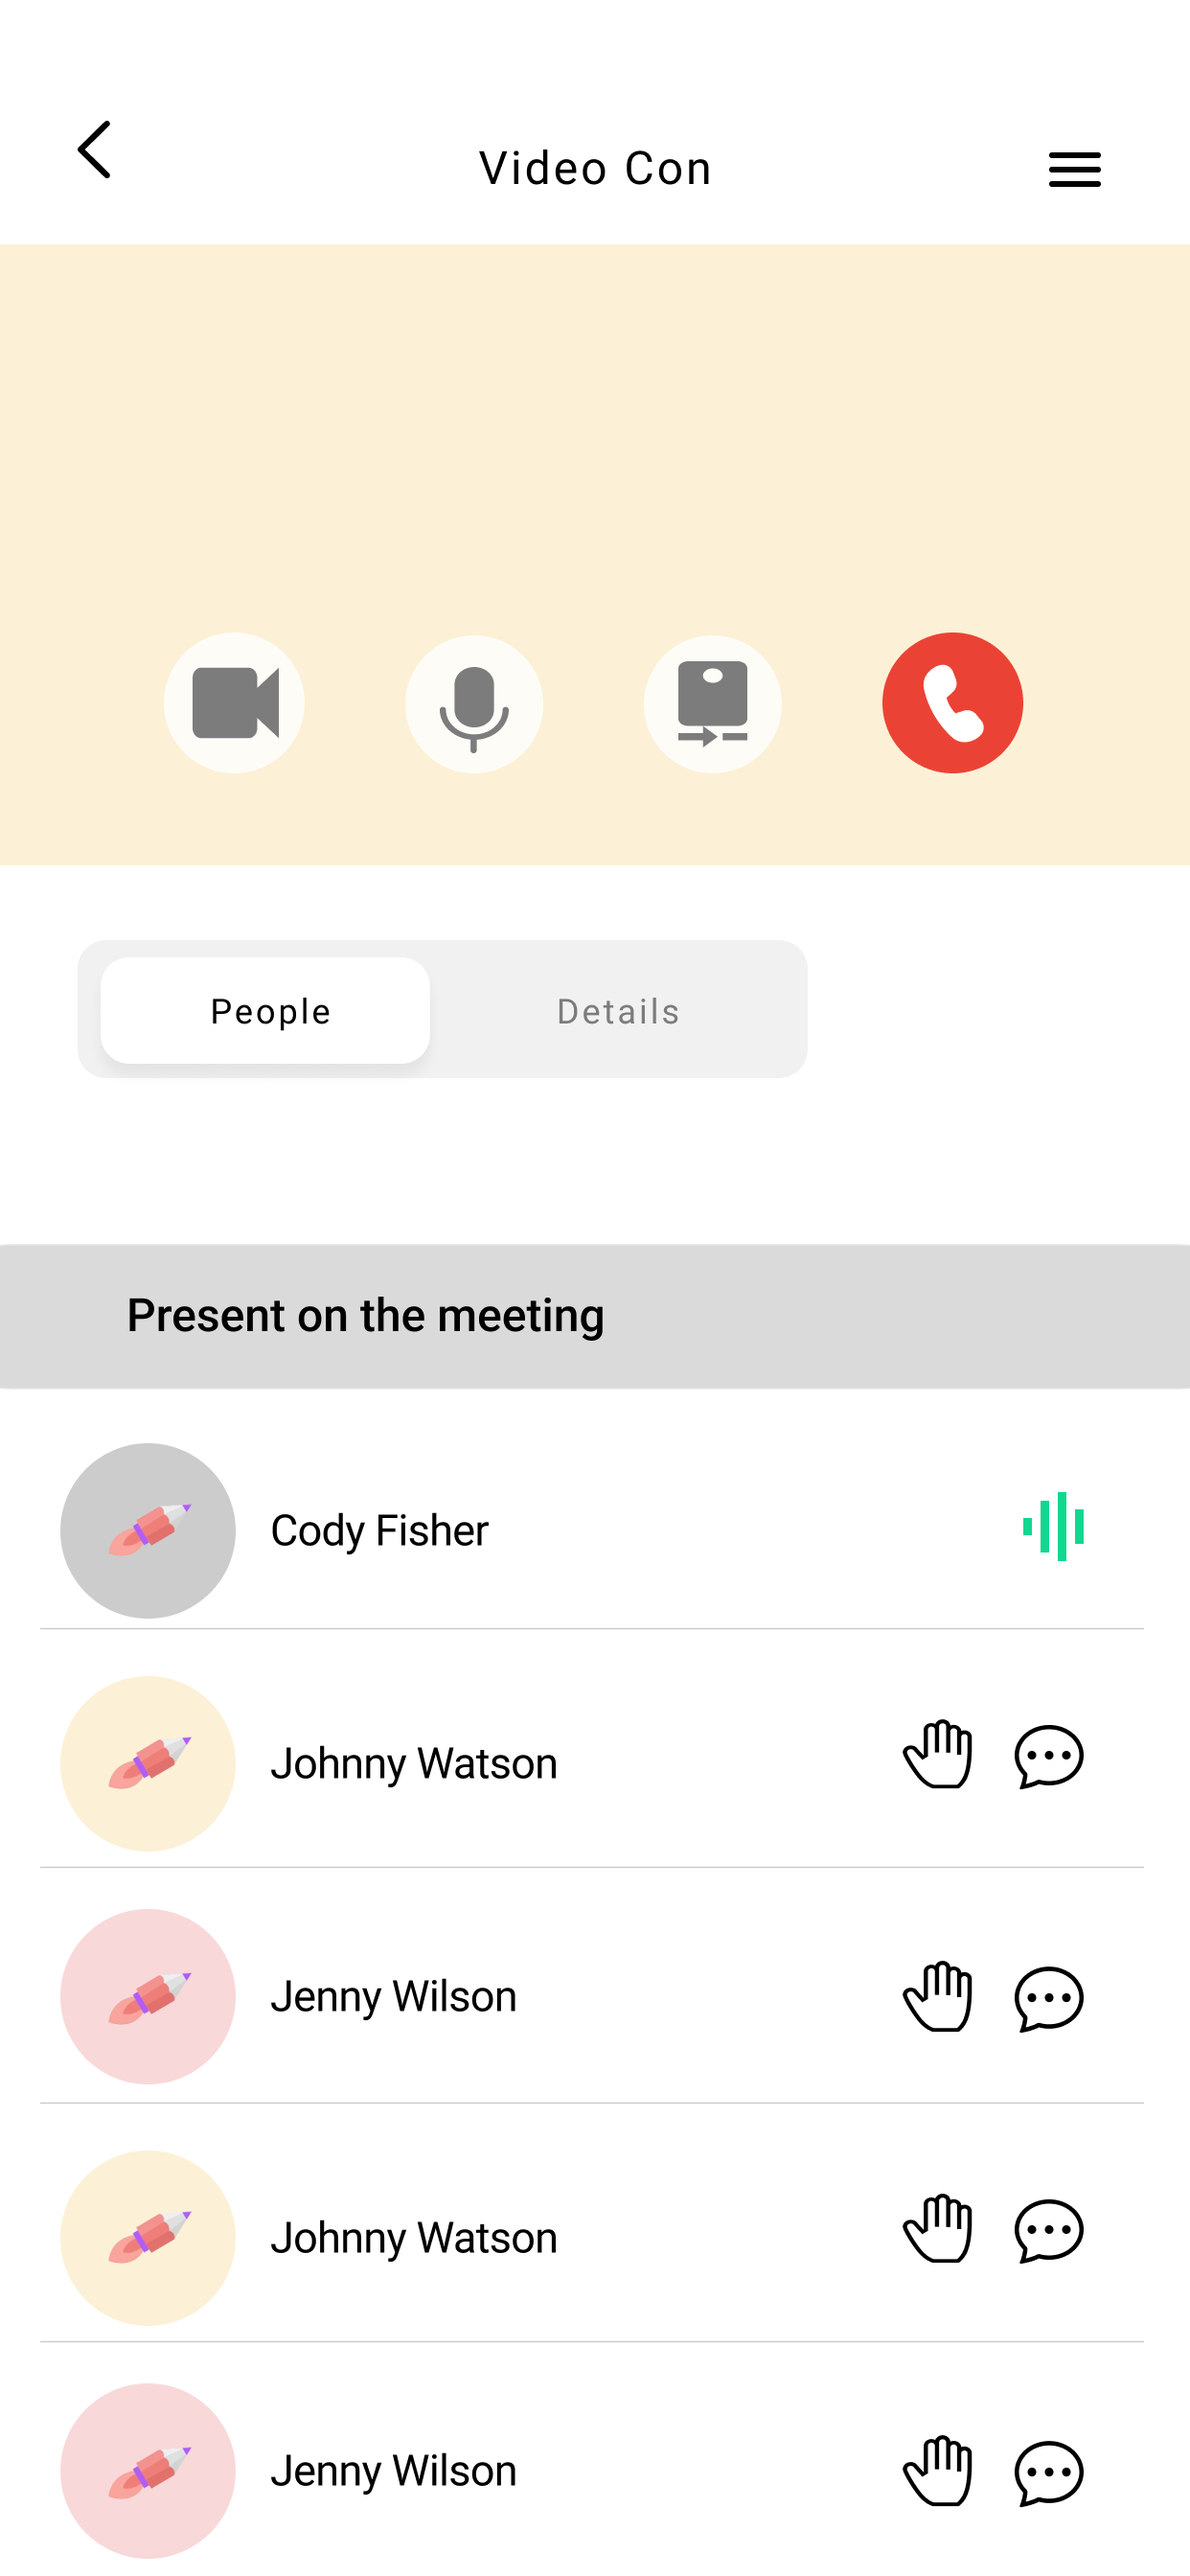
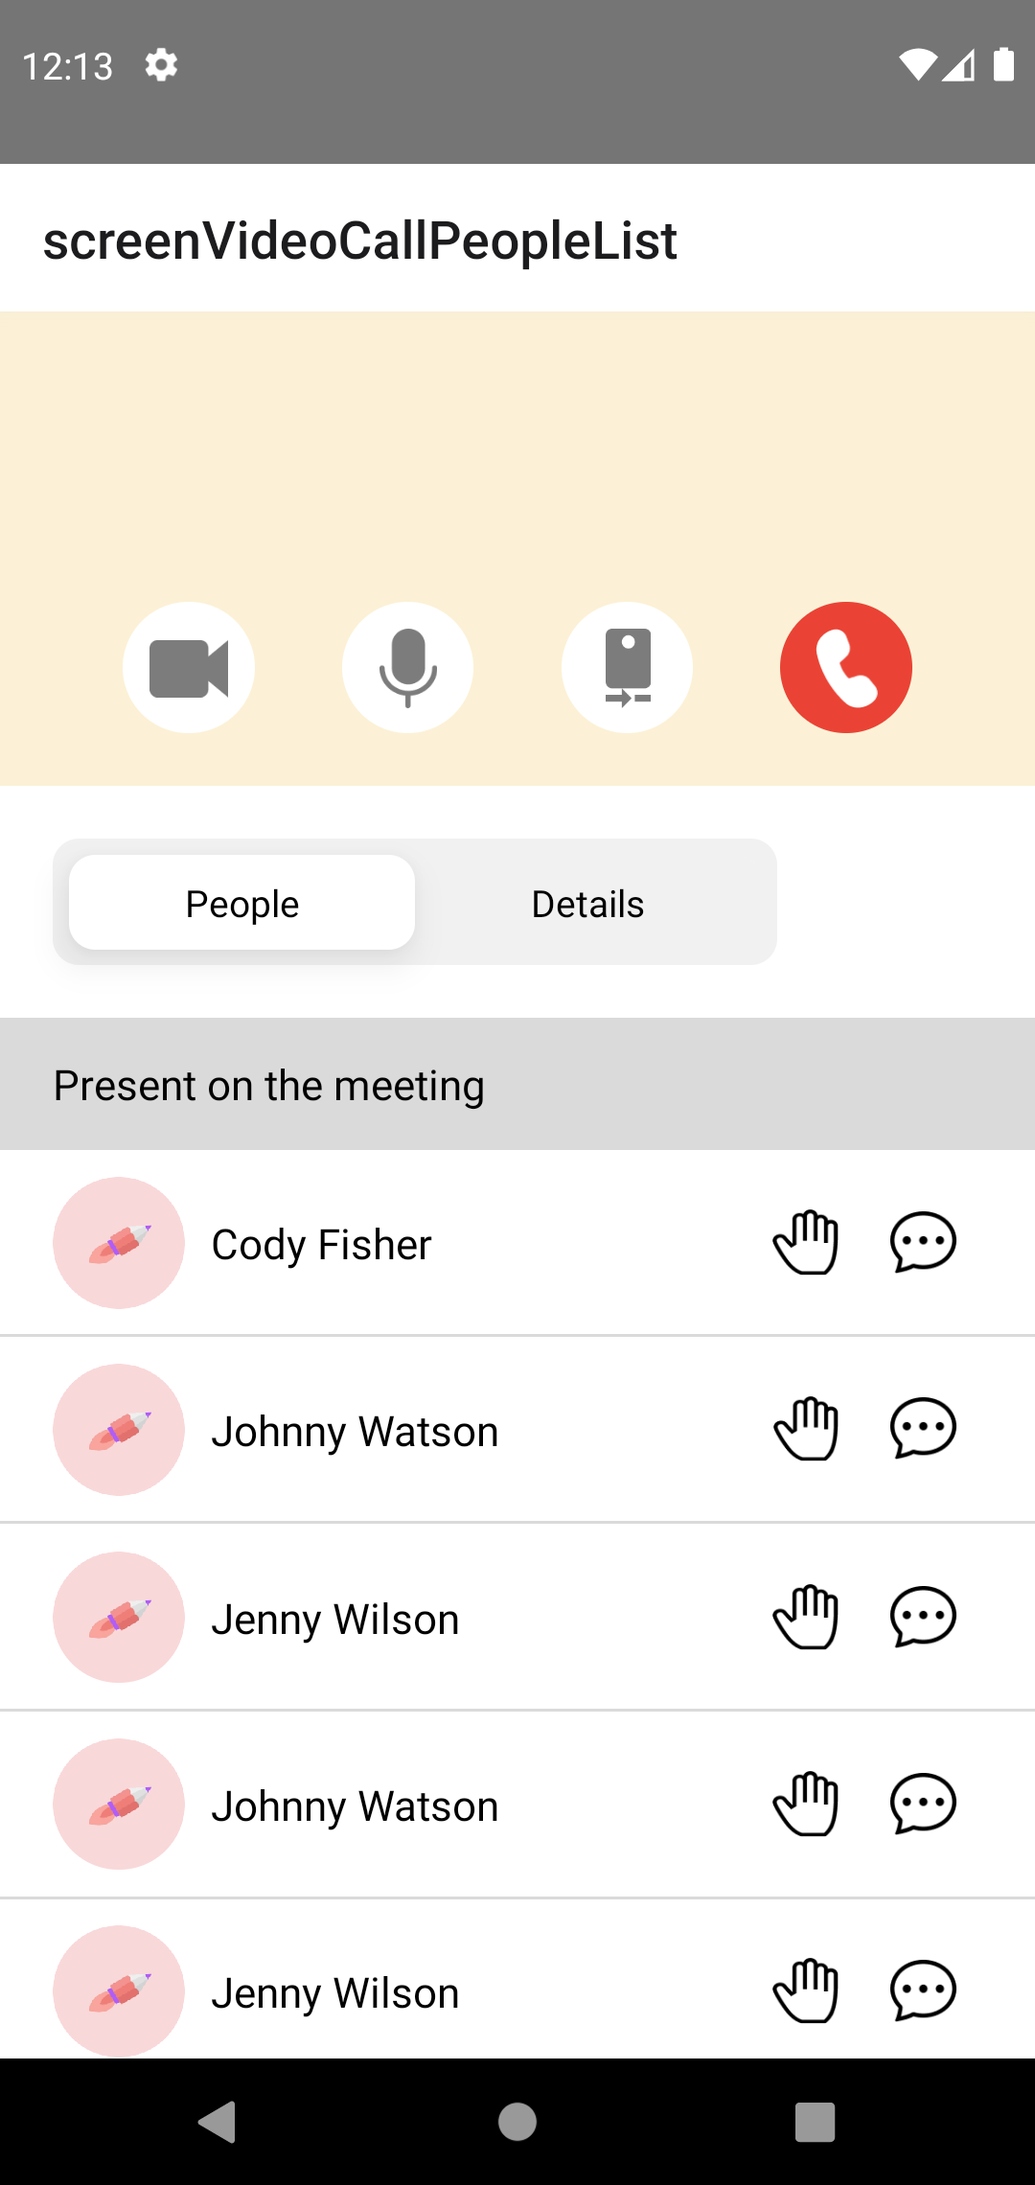
video call people list screen added

diff --git a/screens/screen-video-call-people-list/index.js b/screens/screen-video-call-people-list/index.js
@@ -1,14 +1,103 @@
-import React from "react";
+import React, { useState, useEffect } from "react";
 import {
   Text,
   View,
-  StyleSheet
+  StyleSheet,
+  Image,
+  Pressable,
+  ScrollView
 } from "react-native";
 
 const VideoCallPeopleList = () => {
+  const [selectedTab, setSelectedTab] = useState(0);
+  const [people, setPeople] = useState([]);
+  useEffect(() => {
+    setPeople([
+      {
+        name: "Cody Fisher",
+        image: require("./assets/userImage.png")
+      },
+      {
+        name: "Johnny Watson",
+        image: require("./assets/userImage.png")
+      },
+      {
+        name: "Jenny Wilson",
+        image: require("./assets/userImage.png")
+      },
+      {
+        name: "Johnny Watson",
+        image: require("./assets/userImage.png")
+      },
+      {
+        name: "Jenny Wilson",
+        image: require("./assets/userImage.png")
+      },
+      {
+        name: "Johnny Watson",
+        image: require("./assets/userImage.png")
+      },
+      {
+        name: "Jenny Wilson",
+        image: require("./assets/userImage.png")
+      }
+    ]);
+  }, []);
   return (
     <View style={styles.container}>
-      <Text style={styles.heading}>Video Call People List</Text>
+      <View style={styles.header}>
+        <View style={styles.roundIconContainer}>
+          <Image
+            source={require("./assets/videoIcon.png")}
+            style={styles.icon}
+          />
+        </View>
+        <View style={styles.roundIconContainer}>
+          <Image
+            source={require("./assets/voiceIcon.png")}
+            style={styles.icon}
+          />
+        </View>
+        <View style={styles.roundIconContainer}>
+          <Image
+            source={require("./assets/phoneIcon.png")}
+            style={styles.icon}
+          />
+        </View>
+        <View style={[styles.roundIconContainer, styles.redBg]}>
+          <Image
+            source={require("./assets/callIcon.png")}
+            style={styles.icon}
+          />
+        </View>
+      </View>
+      <TabView
+        tabTitles={["People", "Details"]}
+        selected={selectedTab}
+        onPress={setSelectedTab}
+        style={styles.tabView}
+      />
+      <View style={styles.separator}>
+        <Text style={styles.separatorText}>Present on the meeting</Text>
+      </View>
+      <ScrollView style={styles.peopleList}>
+        {people.map((person, index) => (
+          <View style={styles.userTile}>
+            <Image source={person.image} style={styles.userImage} />
+            <Text style={styles.userName}>{person.name}</Text>
+            <View style={styles.flexRow}>
+              <Image
+                source={require("./assets/handIcon.png")}
+                style={styles.meetingIcon}
+              />
+              <Image
+                source={require("./assets/messageIcon.png")}
+                style={styles.meetingIcon}
+              />
+            </View>
+          </View>
+        ))}
+      </ScrollView>
     </View>
   );
 };
@@ -17,9 +106,171 @@ const styles = StyleSheet.create({
     flex: 1,
     backgroundColor: "#fff"
   },
-  heading: {
-    fontSize: 20
+  header: {
+    justifyContent: "space-around",
+    alignItems: "flex-end",
+    backgroundColor: "#FCF1D6",
+    height: 180,
+    flexDirection: "row",
+    paddingHorizontal: 30,
+    paddingVertical: 20
+  },
+  roundIconContainer: {
+    width: 50,
+    height: 50,
+    backgroundColor: "#fff",
+    borderRadius: 25,
+    justifyContent: "center",
+    alignItems: "center"
+  },
+  icon: {
+    width: 30,
+    height: 30,
+    resizeMode: "contain"
+  },
+  redBg: {
+    backgroundColor: "#EA4335"
+  },
+  tabView: {
+    marginVertical: 20,
+    marginHorizontal: 20,
+    width: "70%"
+  },
+  separator: {
+    height: 50,
+    backgroundColor: "#DADADA",
+    justifyContent: "center",
+    paddingHorizontal: 20
+  },
+  separatorText: {
+    fontSize: 16
+  },
+  peopleList: {},
+  userTile: {
+    flexDirection: "row",
+    alignItems: "center",
+    justifyContent: "space-between",
+    paddingHorizontal: 20,
+    paddingVertical: 10,
+    borderBottomWidth: 1,
+    borderBottomColor: "#DADADA"
+  },
+  userImage: {
+    width: 50,
+    height: 50,
+    borderRadius: 25
+  },
+  userName: {
+    fontSize: 16,
+    marginLeft: 10,
+    flex: 1
+  },
+  flexRow: {
+    flexDirection: "row",
+    alignItems: "center",
+    justifyContent: "space-between"
+  },
+  meetingIcon: {
+    width: 25,
+    height: 25,
+    resizeMode: "contain",
+    marginHorizontal: 10
   }
 });
 
 export default VideoCallPeopleList;
+
+const TabView = ({
+  tabTitles,
+  selected,
+  onPress,
+  tabColor,
+  backgroundColor,
+  style,
+  icons
+}) => {
+  const tabColorStyle = {
+    backgroundColor: tabColor ? tabColor : "#fff"
+  };
+  const backgroundColorStyle = {
+    backgroundColor: backgroundColor ? backgroundColor : "#F1F1F1"
+  };
+  const propStyle = style ? style : {};
+  return (
+    <View
+      style={[tabViewStyles.paletteContainer, backgroundColorStyle, propStyle]}>
+      {tabTitles.map((title, index) => (
+        <Pressable
+          onPress={() => (onPress ? onPress(index) : null)}
+          style={
+            index === selected
+              ? [tabViewStyles.selected, tabColorStyle, tabViewStyles.tabItem]
+              : [
+                  tabViewStyles.unSelected,
+                  backgroundColorStyle,
+                  tabViewStyles.tabItem
+                ]
+          }
+          key={index}>
+          {icons ? (
+            <Image
+              source={icons[index]}
+              style={[
+                tabViewStyles.icon,
+                index === selected
+                  ? tabViewStyles.selectedIcon
+                  : tabViewStyles.unSelectedIcon
+              ]}
+            />
+          ) : null}
+          <Text>{title}</Text>
+        </Pressable>
+      ))}
+    </View>
+  );
+};
+
+const tabViewStyles = StyleSheet.create({
+  paletteContainer: {
+    height: 48,
+    backgroundColor: "#E4E4E4",
+    flexDirection: "row",
+    alignItems: "center",
+    borderRadius: 10,
+    padding: 6,
+    marginVertical: 10
+  },
+  tabItem: {
+    borderRadius: 10,
+    flex: 1,
+    height: "100%",
+    justifyContent: "center",
+    alignItems: "center",
+    flexDirection: "row"
+  },
+  selected: {
+    shadowColor: "rgba(0, 0, 0, 0.5)",
+    elevation: 10,
+    shadowOffset: {
+      width: 0,
+      height: 2
+    },
+    shadowOpacity: 0.2,
+    shadowRadius: 5
+  },
+  unSelected: {
+    backgroundColor: "#f1f1f1"
+  },
+  icon: {
+    width: 20,
+    height: 20,
+    resizeMode: "contain",
+    marginRight: 5
+  },
+  selectedIcon: {
+    tintColor: "#000"
+  },
+  unSelectedIcon: {
+    tintColor: "#7C7C7C"
+  }
+});

diff --git a/modules/index.js b/modules/index.js
@@ -2,7 +2,7 @@ import mods from "./*/index.js";
 import { getModules } from "./modules.js";
 
 export const modules = getModules(mods);
-export const initialRoute = "screenVideoCallDetails";
+export const initialRoute = "screenVideoCallPeopleList";
 // export const initialRoute = modules[0].value.title;
 export const slices = modules
   .filter(mod => mod.value.slice)
